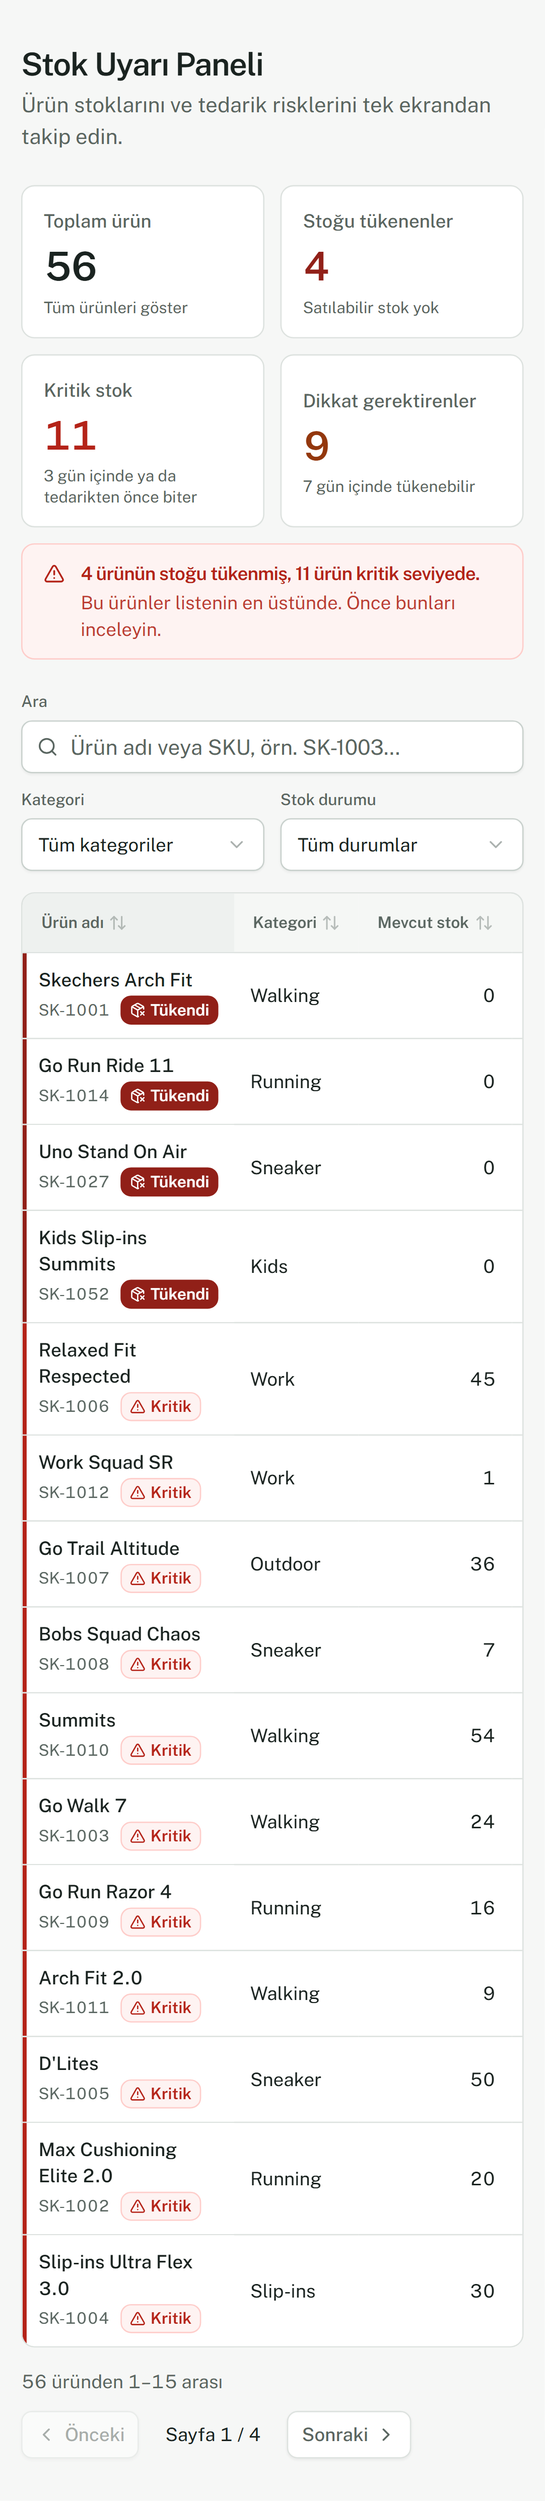
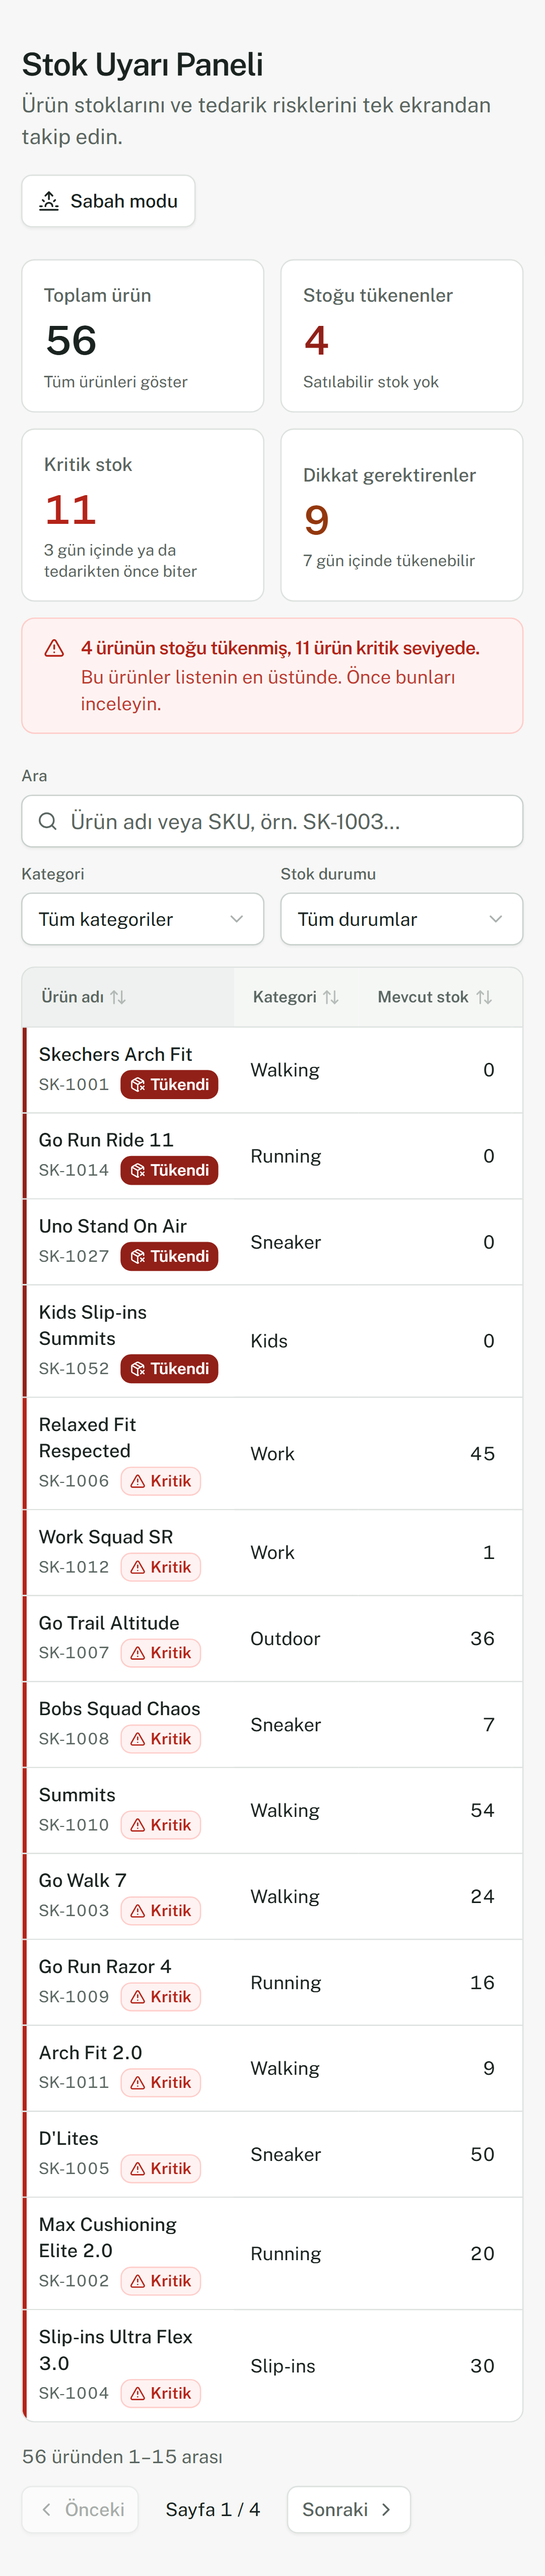
feat(ui): sabah modu görünümü ve geçiş butonu

diff --git a/src/components/MorningView.tsx b/src/components/MorningView.tsx
@@ -1,0 +1,130 @@
+import { CircleCheck, FileWarning } from "lucide-react";
+import { buildOrderSummary, getOrderNeeds, type OrderNeed } from "@/domain/orderNeeds";
+import { SHIFT_START } from "@/domain/shiftClock";
+import type { ProductAnalysis } from "@/domain/types";
+import { formatDays, formatNumber } from "@/lib/format";
+import { cn } from "@/lib/utils";
+import { StatusBadge } from "./StatusBadge";
+
+const dateFormat = new Intl.DateTimeFormat("tr-TR", { dateStyle: "full" });
+const shiftStart = `${String(SHIFT_START.hour).padStart(2, "0")}:${String(SHIFT_START.minute).padStart(2, "0")}`;
+
+export const MORNING_QUESTION = "Hangi ürünler kritik durumda ve acil sipariş gerektiriyor?";
+
+export function MorningView({
+  analyses,
+  issueCount,
+}: {
+  analyses: ProductAnalysis[];
+  issueCount: number;
+}) {
+  const needs = getOrderNeeds(analyses);
+
+  return (
+    <section aria-labelledby="morning-question" className="flex flex-col gap-8">
+      <div className="flex flex-col gap-2 border-b pb-6">
+        <p className="text-sm text-muted-foreground">
+          <span>{dateFormat.format(new Date())}</span>
+          <span aria-hidden="true">, </span>
+          <span>mesai başlangıcı {shiftStart}</span>
+        </p>
+        <h2 id="morning-question" className="text-xl font-semibold tracking-tight text-balance sm:text-2xl">
+          {MORNING_QUESTION}
+        </h2>
+        <p
+          data-testid="order-summary"
+          className={cn(
+            "text-lg font-medium",
+            needs.total > 0 ? "text-status-critical" : "text-status-normal",
+          )}
+        >
+          {buildOrderSummary(needs.total)}
+        </p>
+        {issueCount > 0 && (
+          <p className="flex items-center gap-1.5 text-sm text-muted-foreground">
+            <FileWarning aria-hidden="true" className="size-4" />
+            {issueCount} kayıt hatalı veri nedeniyle değerlendirilemedi.
+          </p>
+        )}
+      </div>
+
+      {needs.total === 0 ? (
+        <p className="flex items-center gap-2 text-muted-foreground">
+          <CircleCheck aria-hidden="true" className="size-5 text-status-normal" />
+          Tüm ürünlerin stoğu tedarik süresi boyunca yetiyor.
+        </p>
+      ) : (
+        <>
+          <NeedGroup title="Stoğu tükendi" needs={needs.outOfStock} />
+          <NeedGroup title="Yeni stok gelmeden tükenecek" needs={needs.beforeRestock} />
+        </>
+      )}
+    </section>
+  );
+}
+
+function NeedGroup({ title, needs }: { title: string; needs: OrderNeed[] }) {
+  if (needs.length === 0) return null;
+  const id = `group-${title.replace(/\s+/g, "-")}`;
+  return (
+    <section aria-labelledby={id} className="flex flex-col gap-3">
+      <h3 id={id} className="flex items-baseline gap-2 text-base font-semibold">
+        {title}
+        <span className="tabular text-sm font-normal text-muted-foreground">{needs.length} ürün</span>
+      </h3>
+      <ul className="grid gap-3 md:grid-cols-2">
+        {needs.map((need) => (
+          <NeedItem key={need.analysis.product.sku} need={need} />
+        ))}
+      </ul>
+    </section>
+  );
+}
+
+function NeedItem({ need }: { need: OrderNeed }) {
+  const { product, status, remainingDays, stockGapDays } = need.analysis;
+  const short = status === "out_of_stock" || (stockGapDays !== null && stockGapDays > 0);
+  return (
+    <li
+      data-testid="order-item"
+      className={cn(
+        "flex flex-col gap-3 rounded-lg border bg-card px-4 py-3.5",
+        status === "out_of_stock"
+          ? "shadow-[inset_3px_0_0_var(--status-out-bg)]"
+          : "shadow-[inset_3px_0_0_var(--status-critical)]",
+      )}
+    >
+      <div className="flex items-start justify-between gap-3">
+        <div className="min-w-0">
+          <p translate="no" className="font-medium">
+            {product.name}
+          </p>
+          <p translate="no" className="text-xs text-muted-foreground">
+            {product.sku}
+          </p>
+        </div>
+        <StatusBadge status={status} />
+      </div>
+
+      <dl className="tabular grid grid-cols-3 gap-2 text-sm">
+        <Stat label="Mevcut stok" value={formatNumber(product.stock)} />
+        <Stat label="Kalan gün" value={formatDays(remainingDays)} />
+        <Stat label="Tedarik süresi" value={`${formatNumber(product.leadTimeDays)} gün`} />
+      </dl>
+
+      <p className={cn("text-sm", short ? "text-status-critical" : "text-muted-foreground")}>
+        {need.note}
+        {need.noSalesData && <span className="text-muted-foreground"> Satış verisi yok.</span>}
+      </p>
+    </li>
+  );
+}
+
+function Stat({ label, value }: { label: string; value: string }) {
+  return (
+    <div className="flex flex-col">
+      <dt className="text-xs text-muted-foreground">{label}</dt>
+      <dd className="font-medium">{value}</dd>
+    </div>
+  );
+}

diff --git a/e2e/morning.spec.ts b/e2e/morning.spec.ts
@@ -1,0 +1,102 @@
+import { expect, test, type Page } from "@playwright/test";
+
+const QUESTION = "Hangi ürünler kritik durumda ve acil sipariş gerektiriyor?";
+const day = (date: number, hour: number, minute: number) => new Date(2026, 9, date, hour, minute);
+
+const toggle = (page: Page) => page.getByTestId("morning-toggle");
+const question = (page: Page) => page.getByRole("heading", { name: QUESTION });
+const items = (page: Page) => page.getByTestId("order-item");
+const item = (page: Page, sku: string) => items(page).filter({ hasText: sku });
+
+test.describe("Sabah modu", () => {
+  test("AC-20 08:00'de normal panel açılır; buton ile sabah moduna geçilip geri dönülür", async ({ page }) => {
+    await page.clock.install({ time: day(27, 8, 0) });
+    await page.goto("/");
+    await expect(page.getByTestId("kpi-total")).toBeVisible();
+    await expect(toggle(page)).toHaveText("Sabah modu");
+    await expect(toggle(page)).toHaveAttribute("aria-pressed", "false");
+
+    await toggle(page).click();
+    await expect(question(page)).toBeVisible();
+    await expect(toggle(page)).toHaveText("Panele dön");
+    await expect(toggle(page)).toHaveAttribute("aria-pressed", "true");
+    await expect(page.getByTestId("kpi-total")).toHaveCount(0);
+
+    await toggle(page).click();
+    await expect(question(page)).toHaveCount(0);
+    await expect(page.getByTestId("kpi-total-value")).toHaveText("56");
+  });
+
+  test("AC-22 sipariş gereken ürünler doğru listelenir ve sipariş ima edilmez", async ({ page }) => {
+    await page.clock.install({ time: day(27, 8, 0) });
+    await page.goto("/");
+    await toggle(page).click();
+
+    await expect(page.getByTestId("order-summary")).toHaveText(
+      "Bugün 15 ürün için sipariş vermeniz gerekiyor.",
+    );
+    await expect(items(page)).toHaveCount(15);
+    await expect(items(page).first()).toContainText("SK-1001");
+    await expect(items(page).first()).toContainText("Tükendi");
+    await expect(item(page, "SK-1003")).toContainText(
+      "Bugün sipariş verilse bile yaklaşık 3 gün stoksuz kalır.",
+    );
+    await expect(item(page, "SK-1052")).toContainText("Satış verisi yok.");
+    await expect(page.getByRole("heading", { name: "Stoğu tükendi" })).toBeVisible();
+    await expect(page.getByRole("heading", { name: "Yeni stok gelmeden tükenecek" })).toBeVisible();
+    await expect(page.getByText(/sipariş (oluştur|verildi)/i)).toHaveCount(0);
+  });
+
+  test("AC-21 08:31'de günün ilk açılışında kendiliğinden açılır; kapatılınca o gün tekrar açılmaz", async ({ page }) => {
+    await page.clock.install({ time: day(27, 8, 31) });
+    await page.goto("/");
+    await expect(question(page)).toBeVisible();
+
+    await toggle(page).click();
+    await expect(page.getByTestId("kpi-total")).toBeVisible();
+    await page.reload();
+    await expect(page.getByTestId("kpi-total")).toBeVisible();
+    await expect(question(page)).toHaveCount(0);
+
+    // Ertesi gün 08:31: yeniden açılır
+    await page.clock.setSystemTime(day(28, 8, 31));
+    await page.reload();
+    await expect(question(page)).toBeVisible();
+  });
+
+  test("AC-21 panel 08:30'dan önce açıksa saat gelince kendiliğinden geçer", async ({ page }) => {
+    await page.clock.install({ time: day(27, 8, 29) });
+    await page.goto("/");
+    await expect(page.getByTestId("kpi-total")).toBeVisible();
+    await expect(question(page)).toHaveCount(0);
+
+    await page.clock.runFor("02:00");
+    await expect(question(page)).toBeVisible();
+  });
+
+  test("sabah modu ekran görüntüsü", async ({ page }) => {
+    await page.clock.install({ time: day(27, 8, 31) });
+    await page.goto("/");
+    await expect(items(page)).toHaveCount(15);
+    await page.screenshot({ path: "docs/screenshots/morning.png", fullPage: true });
+  });
+});
+
+test.describe("Sabah modu mobil @mobile", () => {
+  test("AC-20 mobilde sabah modu taşmaz ve konsolda hata yok", async ({ page }) => {
+    const errors: string[] = [];
+    page.on("console", (m) => {
+      if (m.type() === "error") errors.push(m.text());
+    });
+    page.on("pageerror", (e) => errors.push(String(e)));
+
+    await page.clock.install({ time: day(27, 8, 31) });
+    await page.goto("/");
+    await expect(question(page)).toBeVisible();
+    await expect(items(page)).toHaveCount(15);
+    const overflow = await page.evaluate(() => document.documentElement.scrollWidth - window.innerWidth);
+    expect(overflow).toBeLessThanOrEqual(0);
+    await page.screenshot({ path: "docs/screenshots/morning-mobile.png", fullPage: true });
+    expect(errors).toEqual([]);
+  });
+});

diff --git a/src/App.tsx b/src/App.tsx
@@ -1,8 +1,11 @@
 import { useEffect, useMemo, useState } from "react";
-import { SearchX } from "lucide-react";
+import { SearchX, Sunrise } from "lucide-react";
 import { Button } from "@/components/ui/button";
 import { TooltipProvider } from "@/components/ui/tooltip";
 import { KpiCards } from "@/components/KpiCards";
+import { MorningView } from "@/components/MorningView";
+import { useMorningMode } from "@/components/useMorningMode";
+import { cn } from "@/lib/utils";
 import { ProductTable } from "@/components/ProductTable";
 import { DataIssuesAlert, LoadErrorAlert, OperationalAlert } from "@/components/StatusAlerts";
 import { TablePagination } from "@/components/TablePagination";
@@ -14,6 +17,7 @@ import type { ProductAnalysis } from "@/domain/types";
 
 export default function App() {
   const [result, setResult] = useState<LoadResult | null>(null);
+  const { isMorning, toggle } = useMorningMode();
 
   useEffect(() => {
     let active = true;
@@ -32,13 +36,25 @@ export default function App() {
         Ürün listesine geç
       </a>
       <main className="mx-auto flex w-full max-w-6xl flex-col gap-6 px-4 py-8 sm:px-6 sm:py-10">
-        <header className="flex flex-col gap-1">
-          <h1 className="text-2xl font-semibold tracking-tight text-balance sm:text-[1.75rem]">
-            Stok Uyarı Paneli
-          </h1>
-          <p className="text-muted-foreground">
-            Ürün stoklarını ve tedarik risklerini tek ekrandan takip edin.
-          </p>
+        <header className="flex flex-col gap-4 sm:flex-row sm:items-start sm:justify-between">
+          <div className="flex flex-col gap-1">
+            <h1 className="text-2xl font-semibold tracking-tight text-balance sm:text-[1.75rem]">
+              Stok Uyarı Paneli
+            </h1>
+            <p className="text-muted-foreground">
+              Ürün stoklarını ve tedarik risklerini tek ekrandan takip edin.
+            </p>
+          </div>
+          <Button
+            data-testid="morning-toggle"
+            variant={isMorning ? "default" : "outline"}
+            aria-pressed={isMorning}
+            onClick={toggle}
+            className={cn("h-10 self-start", !isMorning && "bg-card")}
+          >
+            <Sunrise aria-hidden="true" />
+            {isMorning ? "Panele dön" : "Sabah modu"}
+          </Button>
         </header>
 
         {result === null && (
@@ -47,9 +63,12 @@ export default function App() {
           </p>
         )}
         {result?.status === "error" && <LoadErrorAlert message={result.message} />}
-        {result?.status === "ready" && (
-          <Dashboard analyses={result.analyses} issues={result.issues} />
-        )}
+        {result?.status === "ready" &&
+          (isMorning ? (
+            <MorningView analyses={result.analyses} issueCount={result.issues.length} />
+          ) : (
+            <Dashboard analyses={result.analyses} issues={result.issues} />
+          ))}
       </main>
     </TooltipProvider>
   );

diff --git a/e2e/dashboard.spec.ts b/e2e/dashboard.spec.ts
@@ -21,6 +21,12 @@ function trackErrors(page: Page) {
   return errors;
 }
 
+// Panel testleri mesai başlangıcından (08:30) önceki saate sabitlenir;
+// aksi hâlde sabah modu kendiliğinden açılır.
+test.beforeEach(async ({ page }) => {
+  await page.clock.setFixedTime(new Date(2026, 9, 27, 8, 0));
+});
+
 test.describe("Stok Uyarı Paneli", () => {
   test("AC-14 sayfa açılır, 56 ürün yüklenir, konsolda hata yok", async ({ page }) => {
     const errors = trackErrors(page);
